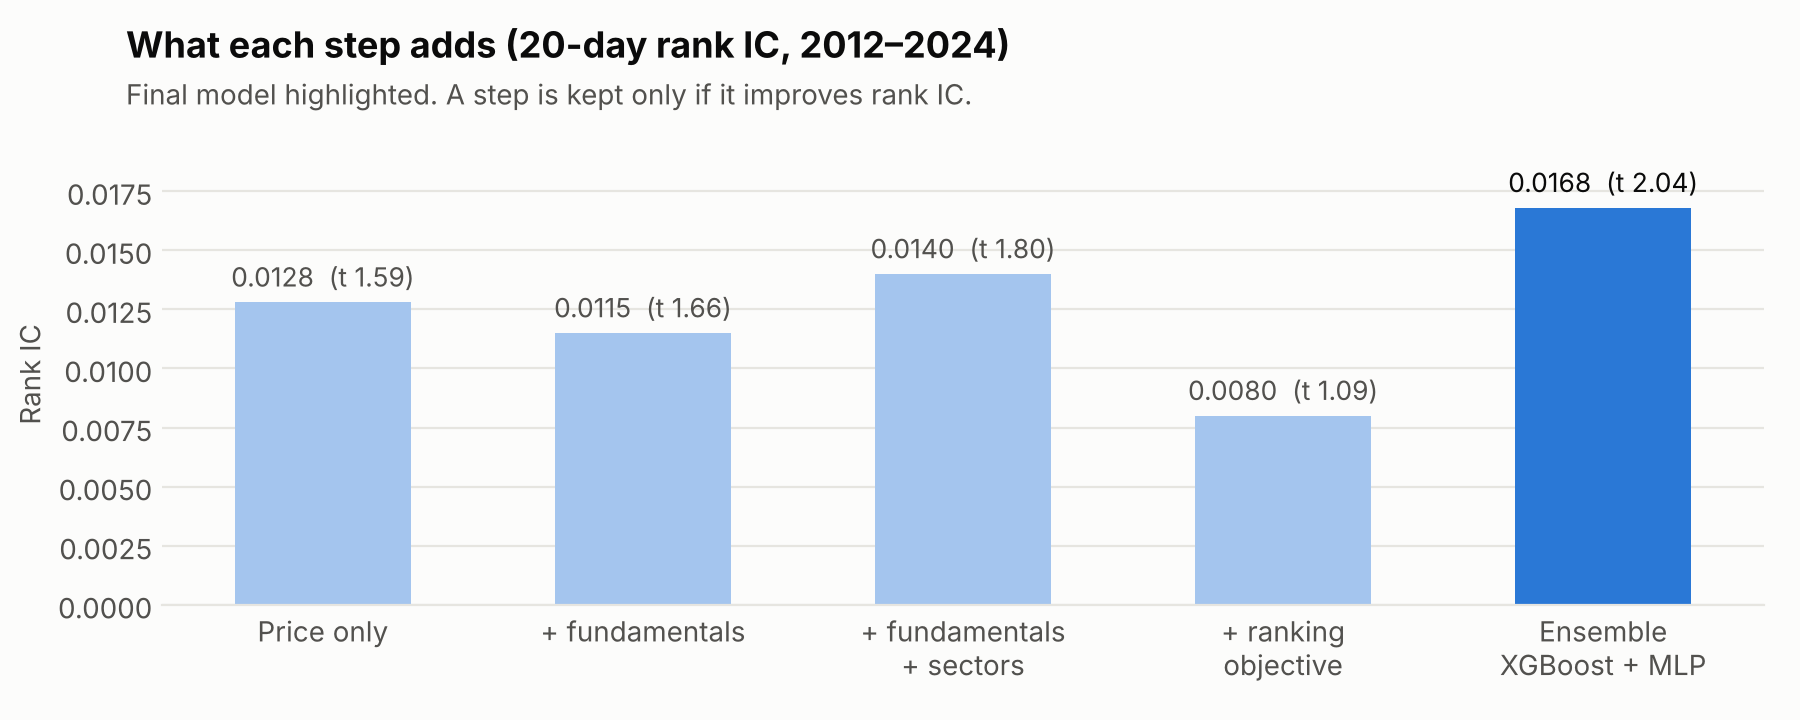
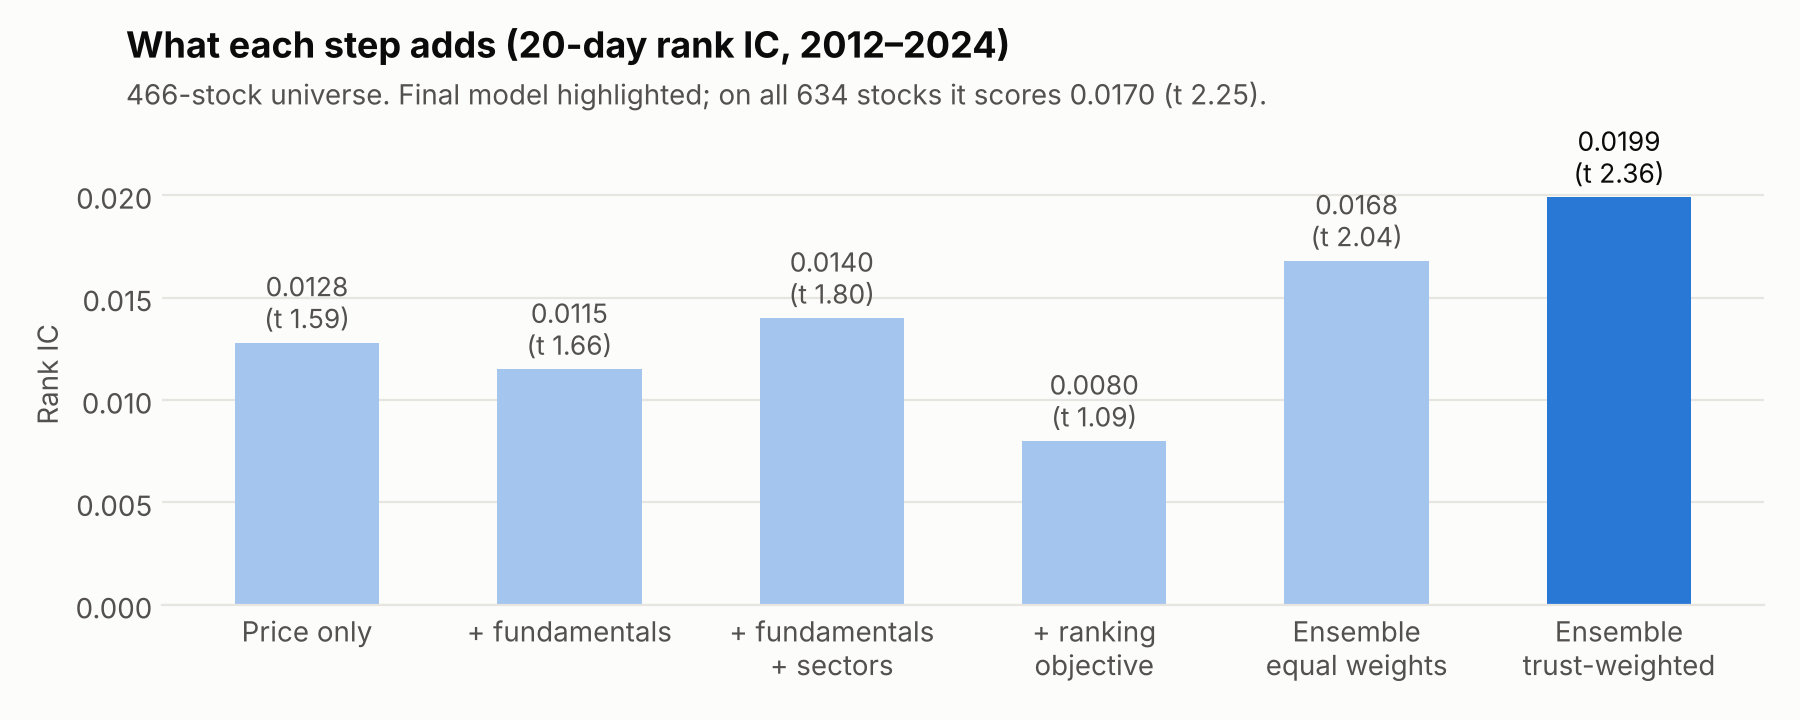
Final model: trust-weighted XGBoost + MLP on 634 stocks (IC 0.0170, t 2.25)

diff --git a/scripts/run_experiment.py b/scripts/run_experiment.py
@@ -208,7 +208,7 @@ def run(source="synthetic", signal="none", models=("random_walk", "xgboost"), ho
             raw = model.predict(test[feats])
             if m == "xgboost" and objective == "rank":
                 raw = raw - pd.Series(raw).groupby(test["date"].values).transform("mean").values
-            trained[m] = (k * raw, raw)
+            trained[m] = (k * raw, raw, k)
             if m == "xgboost":
                 importances.append(model.importance().rename(f.year))
                 shrinks.append({"fold": f.year, "k": k})
@@ -219,10 +219,13 @@ def run(source="synthetic", signal="none", models=("random_walk", "xgboost"), ho
             if m == "random_walk":
                 pred = RandomWalk().predict(test)
             elif m in TRAINED:
-                pred, raw = trained[m]
+                pred, raw, _ = trained[m]
             elif m == "ensemble":
-                pred = np.mean([trained[x][0] for x in ENSEMBLE_MEMBERS], axis=0)
-                raw = ensemble_rank([trained[x][1] for x in ENSEMBLE_MEMBERS], test["date"].values)
+                # each member weighted by its trust score k (skill on the latest training years, no test data)
+                ks = np.array([trained[x][2] for x in ENSEMBLE_MEMBERS], dtype=float)
+                wts = ks / ks.sum() if ks.sum() > 0 else np.full(len(ks), 1 / len(ks))
+                pred = np.sum([wt * trained[x][0] for wt, x in zip(wts, ENSEMBLE_MEMBERS)], axis=0)
+                raw = ensemble_rank([trained[x][1] for x in ENSEMBLE_MEMBERS], test["date"].values, weights=ks)
             elif m in ("kronos", "timesfm"):
                 # zero-shot pretrained model used directly: its excess-return forecast IS the prediction (no training)
                 pred = test[f"{m}_raw_5" if h == 5 else f"{m}_raw_20"].fillna(0.0).values

diff --git a/src/models/ensemble.py b/src/models/ensemble.py
@@ -7,8 +7,8 @@
 All features are already cross-sectional ranks in [-0.5, 0.5] (0 = median), so a missing value is
 filled with 0 = "average stock" for the linear and neural models; tree models handle NaN natively.
 
-ensemble_rank(): combines members by averaging each member's per-date rank of its prediction.
-Equal weights, chosen in advance (no tuning on test years), so the ensemble cannot overfit.
+ensemble_rank(): combines members by averaging each member's per-date rank of its prediction, weighted by
+each member's trust score k from the shrinkage step (measured on the latest training years only).
 """
 import os
 
@@ -122,11 +122,16 @@ class MLPForecaster:
         return np.concatenate(out) * self.sd + self.mu
 
 
-def ensemble_rank(raw_preds: list, dates) -> np.ndarray:
-    """Average of each member's per-date percentile rank (centred at 0). Scale-free, equal weights."""
+def ensemble_rank(raw_preds: list, dates, weights=None) -> np.ndarray:
+    """Weighted average of each member's per-date percentile rank (centred at 0). Scale-free.
+    weights: one number per member, e.g. each member's shrinkage k (its skill on the most recent TRAINING
+    years, so no test-year information is used). All zero / None -> equal weights."""
     d = np.asarray(dates)
+    w = np.ones(len(raw_preds)) if weights is None else np.clip(np.asarray(weights, dtype=float), 0, None)
+    w = np.ones(len(raw_preds)) if w.sum() <= 0 else w
+    w = w / w.sum()
     ranks = []
     for p in raw_preds:
         r = pd.Series(p).groupby(d).rank(pct=True)
         ranks.append((r - r.groupby(d).transform("mean")).values)      # centred: average stock = 0 each date
-    return np.mean(ranks, axis=0)
+    return np.average(ranks, axis=0, weights=w)

diff --git a/tests/test_pipeline.py b/tests/test_pipeline.py
@@ -335,6 +335,8 @@ def test_ensemble_rank_is_scale_free():
     e = ensemble_rank([p1, p2], d)
     assert np.allclose(e, ensemble_rank([p1], d))
     assert np.allclose(pd.Series(e).groupby(d).mean().values, 0.0)
+    assert np.allclose(ensemble_rank([p1, -p1], d, weights=[1, 0]), ensemble_rank([p1], d))   # weight 0 = ignored
+    assert np.allclose(ensemble_rank([p1, -p1], d, weights=[0, 0]), 0.0)                      # all 0 -> equal
 
 
 @pytest.mark.slow

diff --git a/docs/decisions.md b/docs/decisions.md
@@ -6,8 +6,8 @@ What we tried, what it scored, and whether it is **in**, **out** or **pending** 
 
 ## Current final model (FYP-1 candidate)
 
-> **Ensemble of XGBoost + neural net (MLP)**, equal-weight rank average, on **price + fundamentals + sector** features, cross-sectional ranks, winsorised target, prediction shrinkage.
-> 20-day rank IC **0.0168** (t **2.04**, first result past the significance bar), positive in **11 / 13** years, equally strong in 2012–17 and 2018–24. Price brackets: **quantile XGBoost + conformal calibration** (80% range covers 80.1%).
+> **Ensemble of XGBoost + neural net (MLP)**, each weighted by its trust score from the latest *training* years, on **price + fundamentals + sector** features, **634 stocks** (Tiingo + Yahoo fill-in), cross-sectional ranks, winsorised target, prediction shrinkage.
+> 20-day rank IC **0.0170** (t **2.25**), positive in **11 / 13** years. On the earlier 466-stock universe the same method scored 0.0199 (t 2.36, 12 / 13 years): it is the best or near-best option on both universes. Price brackets: **quantile XGBoost + conformal calibration** (80% range covers 80.1%).
 
 ```mermaid
 flowchart LR
@@ -17,7 +17,7 @@ flowchart LR
     C -->|ranking objective: 0.0080 ✗| X2[rank objective OUT]
     C -->|+ Kronos: 0.0147, noise ✗| X3[Kronos OUT]
     C -->|+ TimesFM: 0.0128 ✗| X4[TimesFM OUT]
-    C -->|ensemble XGBoost + MLP| E[0.0168 ✓ final]
+    C -->|ensemble XGBoost + MLP, trust-weighted| E[0.0170–0.0199 ✓ final]
     C -->|+ news| P2[deferred to FYP-2]
 ```
 
@@ -39,6 +39,9 @@ flowchart LR
 | Ridge (linear) | **OUT** | IC 0.0042, t 0.41 | Too simple; lowers any ensemble it joins |
 | **Ensemble: XGBoost + MLP** (equal-weight rank average) | **IN — final model** | **IC 0.0168, t 2.04, 11/13 years** | +20% over XGBoost alone, and stable: 0.0171 in 2012–17, 0.0163 in 2018–24 (XGBoost alone: 0.0057 / 0.0209). Members chosen by how *different* their predictions are (correlation, no test outcomes used); equal weights fixed in advance |
 | Ensemble: XGBoost + LightGBM + MLP | OUT | IC 0.0143 | Two near-identical tree models outvote the neural net |
+| Equal-weight XGBoost + MLP | **replaced** | 466 stocks 0.0168 · 634 stocks 0.0147 | On the full universe XGBoost alone fell to 0.0064 and dragged the equal mix down |
+| **Trust-weighted XGBoost + MLP** | **IN — final model** | 466 stocks **0.0199** (t 2.36) · 634 stocks **0.0170** (t 2.25) | Each year, each model's weight = its shrinkage k, i.e. how well it predicted the most recent *training* years. A model that stopped working gets little weight automatically. No test-year data is used. Most stable choice across both universes |
+| MLP alone | not chosen | 466: 0.0149 · 634: 0.0192 (t 2.97) | Best on the full universe but weaker on the smaller one: more variable than the weighted ensemble |
 | Regime models | **FYP-2** | — | After the ensemble |
 | Kronos fine-tuned on US stocks | **FYP-2** | — | Pretrained route, ~3 days and uncertain; zero-shot versions did not help |
 
@@ -94,6 +97,7 @@ Each pretrained model sees **one stock's price history at a time**. Our model co
 | Decision | Why | Effect / plan |
 |---|---|---|
 | Universe = all S&P 500 members since 2000, only while they were members | Avoids survivorship bias | Only 47% of departed stocks have prices → noted as a limitation |
+| Universe expanded 466 → **634 stocks** (Yahoo fill-in) | Commercial product must cover the index; more training examples | XGBoost became unstable (0.0140 → 0.0064); the neural net improved (0.0149 → 0.0192) |
 | Missing 196 tickers (after PCAR) filled from Yahoo Finance instead of paying for Tiingo | Free and immediate; checked against Tiingo on 25 overlapping tickers before use | Some delisted stocks are not on Yahoo → small extra survivorship gap. A commercial launch needs a licensed feed whichever source we use |
 | Fundamentals: first-filed values, usable the day after filing | No look-ahead from restatements or late filings | — |
 | Macro: ALFRED vintages | Uses values as first published | — |

diff --git a/docs/results.md b/docs/results.md
@@ -60,6 +60,24 @@ Run `20261112_1227_real_stock_h20_fund_sect`; combinations in `ensemble_combinat
 
 Correlation of the models' stock rankings: XGBoost–LightGBM 0.86, XGBoost–MLP 0.43, MLP–Ridge 0.55. Combining models that disagree (tree + neural net) is what helps. **Final model: XGBoost + MLP.**
 
+## 3b. Full universe (634 stocks) and ensemble weighting
+
+Run `20261112_1342_real_stock_h20_fund_sect` (634 stocks, 279,757 stock-dates). Comparison in `ensemble_weighting_comparison.csv`.
+
+| Universe | Model | Rank IC | t-stat | Positive years | 2012–17 | 2018–24 |
+|---|---|---|---|---|---|---|
+| 466 stocks | XGBoost | 0.0140 | 1.80 | 11 | 0.0057 | 0.0209 |
+| 466 stocks | MLP | 0.0149 | 1.96 | 10 | 0.0240 | 0.0070 |
+| 466 stocks | Equal-weight XGBoost + MLP | 0.0168 | 2.04 | 11 | 0.0171 | 0.0163 |
+| 466 stocks | **Trust-weighted XGBoost + MLP** | **0.0199** | **2.36** | **12** | 0.0226 | 0.0173 |
+| 634 stocks | XGBoost | 0.0064 | 0.79 | 10 | 0.0003 | 0.0115 |
+| 634 stocks | MLP | 0.0192 | 2.97 | 10 | 0.0262 | 0.0128 |
+| 634 stocks | Equal-weight XGBoost + MLP | 0.0147 | 1.93 | 10 | 0.0147 | 0.0143 |
+| 634 stocks | **Trust-weighted XGBoost + MLP (final)** | **0.0170** | **2.25** | **11** | 0.0240 | 0.0106 |
+
+- On the 125 newly added stocks alone the neural net scores 0.0168 (t 2.0): the skill carries over to stocks it was never tuned on.
+- Note on honesty: several ways of combining the two models were compared on the same test years. The trust-weighted rule was picked because it uses only training-year information and is the most stable across both universes; the locked 2025–26 holdout is the final check.
+
 ## 4. Other horizons (fundamentals + sectors)
 
 | Horizon | Hit rate | Rank IC | IC t-stat |

diff --git a/docs/PROGRESS.md b/docs/PROGRESS.md
@@ -150,6 +150,12 @@ Targets to beat: rank IC 0.03–0.08 with t > 2, hit rate 52–56%, DM p < 0.05 
 
 ## Work log (newest first)
 
+### 12 Nov 2026 (full universe results)
+- Full universe run (634 stocks, 279,757 stock-dates): XGBoost 0.0064 (t 0.79, unstable) · **MLP 0.0192 (t 2.97)** · equal-weight ensemble 0.0147 (t 1.93).
+- MLP holds up on the 125 new stocks alone (0.0168, t 2.0). XGBoost's trust score k is 0 in several early years → noisy.
+- New ensemble rule: weight each model by its shrinkage k (skill on latest training years). Trust-weighted XGBoost + MLP: **0.0199 (t 2.36, 12/13) on 466 stocks, 0.0170 (t 2.25, 11/13) on 634 stocks** → most stable → **final model**. Code: `ensemble_rank(weights=...)`; test added (25 tests).
+- Next: 5/60-day horizons + price brackets on the full universe, then the daily forecast job + dashboard.
+
 ### 12 Nov 2026 (Yahoo fill-in)
 - 196 universe tickers were never downloaded (Tiingo free cap stopped at PCAR): 133 still members (PEP, PG, UNH, V, WMT, XOM, …), 63 left the index.
 - Free alternative instead of Tiingo upgrade: `src/ingest/yahoo.py` (yfinance) writes the same raw format as Tiingo, rebuilds raw prices from Yahoo's split-adjusted ones, cuts to Tiingo's date range per ticker. `--check` compares Yahoo vs Tiingo on 25 tickers first. Test added (split handling).

diff --git a/README.md b/README.md
@@ -112,7 +112,7 @@ More detail: [`docs/architecture.md`](docs/architecture.md).
 
 ## Results
 
-Walk-forward backtest: 466 S&P 500 stocks, test years 2012–2024, scored weekly (~208,000 stock-dates). The 2025–26 holdout is still locked.
+Walk-forward backtest (first 466, then the full 634 S&P 500 stocks), test years 2012–2024, scored weekly (208,000–280,000 stock-dates). The 2025–26 holdout is still locked.
 
 <picture>
   <source media="(prefers-color-scheme: dark)" srcset="docs/assets/ablation_dark.png">
@@ -126,7 +126,9 @@ Walk-forward backtest: 466 S&P 500 stocks, test years 2012–2024, scored weekly
 | + fundamentals | 50.7% | 0.0115 | 1.66 |
 | + fundamentals + sectors | 50.7% | 0.0140 | 1.80 |
 | + ranking objective | 50.3% | 0.0080 | 1.09 |
-| **Ensemble: XGBoost + neural net (final)** | **50.5%** | **0.0168** | **2.04** |
+| Ensemble: XGBoost + neural net, equal weights | 50.5% | 0.0168 | 2.04 |
+| **Ensemble, trust-weighted (final)** | **50.6%** | **0.0199** | **2.36** |
+| **Same final model on the full 634-stock universe** | **50.5%** | **0.0170** | **2.25** |
 
 <picture>
   <source media="(prefers-color-scheme: dark)" srcset="docs/assets/rank_ic_by_year_dark.png">
